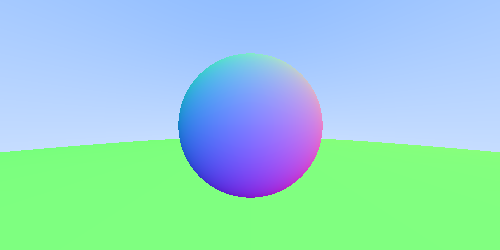
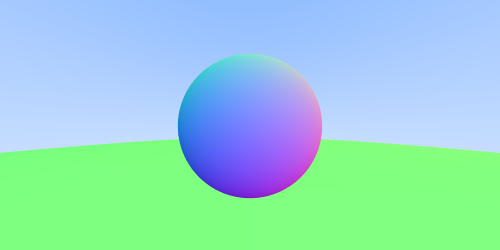
antialiasing

diff --git a/cmd/tracer/tracer.go b/cmd/tracer/tracer.go
@@ -3,39 +3,41 @@ package main
 import (
 	"fmt"
 	"image"
-	"image/color"
 	"image/png"
 	"math"
+	"math/rand"
 	"os"
+	"time"
 
-	"github.com/alisdairrankine/turner/geometry"
+	"github.com/alisdairrankine/turner"
 )
 
 func main() {
 	width := 500
 	height := 250
+	samples := 100
+	rand.Seed(time.Now().Unix())
 
 	img := image.NewRGBA(image.Rect(
 		0, 0, width, height,
 	))
 
-	lowerLeft := geometry.Vec3{-2.0, -1.0, -1.0}
-	horizontal := geometry.Vec3{4.0, 0.0, 0.0}
-	vertical := geometry.Vec3{0.0, 2.0, 0.0}
-	origin := geometry.Vec3{0.0, 0.0, 0.0}
-
+	camera := turner.DefaultCamera()
 	world := newWorld()
 
 	fmt.Println("starting raytrace")
 	for y := height - 1; y >= 0; y-- {
 		for x := 0; x < width; x++ {
-			u := float64(x) / float64(width)
-			v := float64(height-y) / float64(height)
-			ray := geometry.Ray{
-				origin,
-				lowerLeft.Add(horizontal.MultiplyScalar(u)).Add(vertical.MultiplyScalar(v)),
+			colour := turner.Vec3{0, 0, 0}
+			for s := 0; s < samples; s++ {
+				u := (float64(x) + rand.Float64()) / float64(width)
+				v := (float64(height-y) + rand.Float64()) / float64(height)
+				ray := camera.Ray(u, v)
+
+				colour = colour.Add(colourFromRay(ray, world))
+
 			}
-			img.Set(x, y, colourFromRay(ray, world))
+			img.Set(x, y, colour.DivideScalar(float64(samples)).Colour())
 
 		}
 	}
@@ -46,22 +48,22 @@ func main() {
 	png.Encode(file, img)
 }
 
-func colourFromRay(ray geometry.Ray, world geometry.Hitable) color.Color {
+func colourFromRay(ray turner.Ray, world turner.Hitable) turner.Vec3 {
 	if hitRec, hit := world.Hit(&ray, 0, math.MaxFloat64); hit {
-		return geometry.Vec3{hitRec.Normal.X + 1, hitRec.Normal.Y + 1, hitRec.Normal.Z + 1}.MultiplyScalar(0.5).Colour()
+		return turner.Vec3{hitRec.Normal.X + 1, hitRec.Normal.Y + 1, hitRec.Normal.Z + 1}.MultiplyScalar(0.5)
 	}
 
 	unitDir := ray.Direction.UnitVector()
 	t := 0.5 * (unitDir.Y + 1)
-	vec1 := geometry.Vec3{1, 1, 1}
-	vec2 := geometry.Vec3{0.5, 0.7, 1.0}
+	vec1 := turner.Vec3{1, 1, 1}
+	vec2 := turner.Vec3{0.5, 0.7, 1.0}
 	colour := vec1.MultiplyScalar(1.0 - t).Add(vec2.MultiplyScalar(t))
-	return colour.Colour()
+	return colour
 }
 
-func newWorld() geometry.Hitable {
-	return geometry.NewHitList(
-		geometry.Sphere{geometry.Vec3{0, -100.5, -1}, 100},
-		geometry.Sphere{geometry.Vec3{0, 0, -1}, 0.5},
+func newWorld() turner.Hitable {
+	return turner.NewHitList(
+		turner.Sphere{turner.Vec3{0, -100.5, -1}, 100},
+		turner.Sphere{turner.Vec3{0, 0, -1}, 0.5},
 	)
 }

diff --git a/camera.go b/camera.go
@@ -1,0 +1,29 @@
+package turner
+
+type Camera struct {
+	LowerLeftCorner Vec3
+	Horizontal      Vec3
+	Vertical        Vec3
+	Origin          Vec3
+}
+
+func DefaultCamera() *Camera {
+
+	lowerLeft := Vec3{-2.0, -1.0, -1.0}
+	horizontal := Vec3{4.0, 0.0, 0.0}
+	vertical := Vec3{0.0, 2.0, 0.0}
+	origin := Vec3{0.0, 0.0, 0.0}
+	return &Camera{
+		lowerLeft,
+		horizontal,
+		vertical,
+		origin,
+	}
+}
+
+func (c *Camera) Ray(u, v float64) Ray {
+	return Ray{
+		c.Origin,
+		c.LowerLeftCorner.Add(c.Horizontal.MultiplyScalar(u)).Add(c.Vertical.MultiplyScalar(v)),
+	}
+}

diff --git a/hitable.go b/hitable.go
@@ -1,4 +1,4 @@
-package geometry
+package turner
 
 type Hitable interface {
 	Hit(r *Ray, tMin, tMax float64) (*HitRecord, bool)

diff --git a/hitlist.go b/hitlist.go
@@ -1,4 +1,4 @@
-package geometry
+package turner
 
 type HitList struct {
 	Hitables []Hitable

diff --git a/ray.go b/ray.go
@@ -1,4 +1,4 @@
-package geometry
+package turner
 
 type Ray struct {
 	Origin    Vec3

diff --git a/vector.go b/vector.go
@@ -1,4 +1,4 @@
-package geometry
+package turner
 
 import (
 	"image/color"

diff --git a/sphere.go b/sphere.go
@@ -1,4 +1,4 @@
-package geometry
+package turner
 
 import "math"
 
